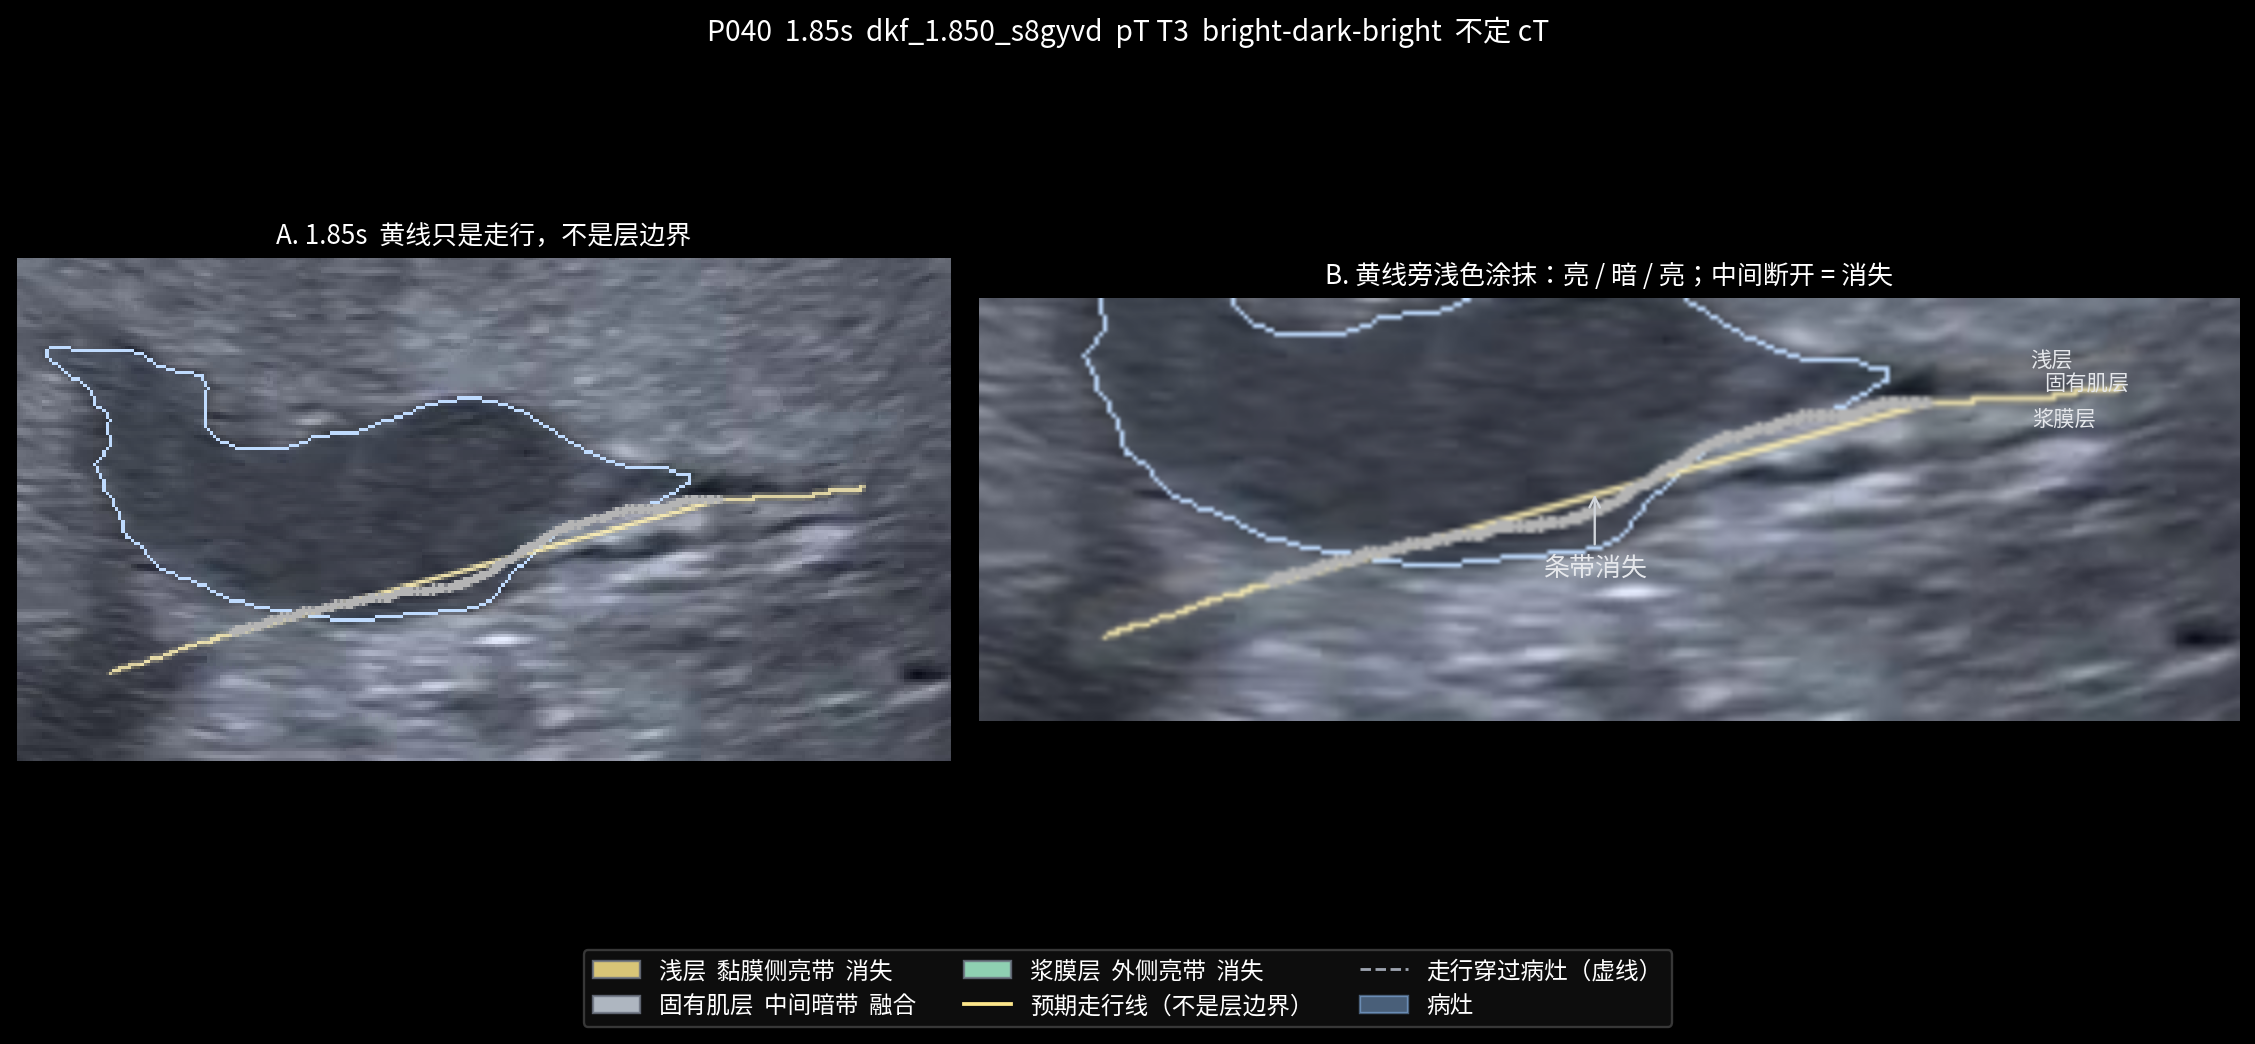
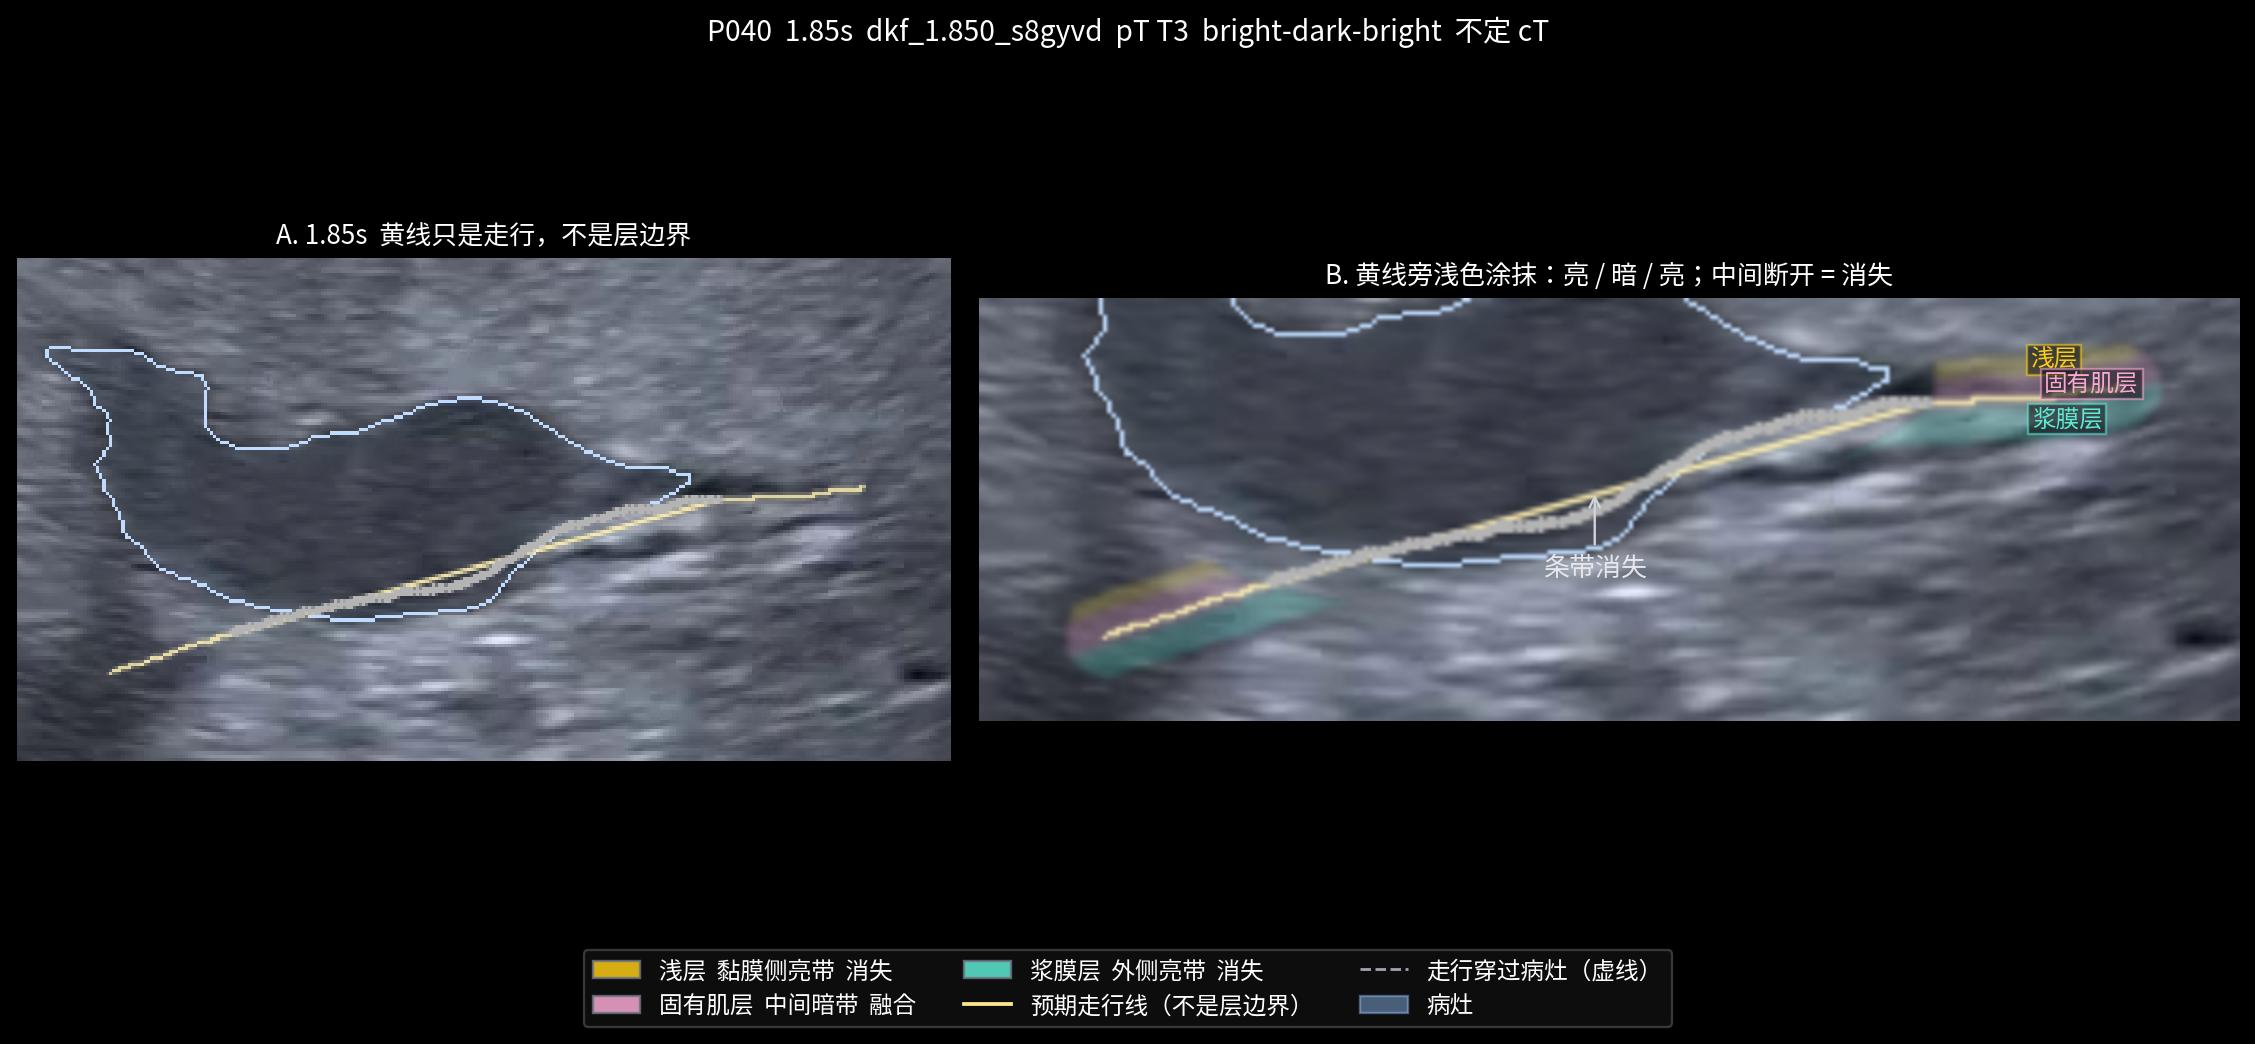
Make the three P040 smear bands transparent but still readable.
Gold, pink, and mint washes sit on the heading; labels name each layer. No ridge curves.

diff --git a/scripts/render_wall_layer_thin_bands.py b/scripts/render_wall_layer_thin_bands.py
@@ -51,13 +51,13 @@ DINO_CKPT = (
 
 LESION_BLUE = (191, 219, 254)
 LAYER_RGB = {
-    0: (254, 243, 199),
-    1: (226, 232, 240),
-    2: (209, 250, 229),
+    0: (253, 224, 71),
+    1: (249, 168, 212),
+    2: (94, 234, 212),
 }
-LAYER_HEX = {0: "#fde68a", 1: "#cbd5e1", 2: "#a7f3d0"}
+LAYER_HEX = {0: "#facc15", 1: "#f9a8d4", 2: "#5eead4"}
 WALL = (254, 240, 180)
-LAYER_BLEND = 0.11
+LAYER_BLEND = 0.26
 LESION_BLEND = 0.12
 GAP_PX = 10
 CJK_PATH = "/usr/share/fonts/opentype/noto/NotoSansCJK-Regular.ttc"
@@ -167,8 +167,8 @@ def overlay_layers(rgb: np.ndarray, xs, ys, labels, gap: np.ndarray | None = Non
             continue
         wash[ys[sel], xs[sel]] = np.array(color, dtype=np.float32)
         weight[ys[sel], xs[sel]] = 1.0
-    wash = cv2.GaussianBlur(wash, (9, 9), 1.6)
-    weight = cv2.GaussianBlur(weight, (9, 9), 1.6)
+    wash = cv2.GaussianBlur(wash, (7, 7), 1.15)
+    weight = cv2.GaussianBlur(weight, (7, 7), 1.15)
     if gap is not None:
         weight = weight * (gap == 0).astype(np.float32)
     alpha = np.clip(weight * LAYER_BLEND, 0.0, LAYER_BLEND)[..., None]
@@ -472,11 +472,12 @@ def render_case(meta: dict, seg: RoiSegmenter, out_dir: Path, brush: float) -> d
             axes[1].text(
                 *to_b(float(xs_lab[sel].mean()), float(ys_lab[sel].mean())),
                 zh,
-                color="#e5e7eb",
+                color=LAYER_HEX[lab],
                 fontproperties=CJK,
-                fontsize=9,
+                fontsize=10,
                 ha="left",
                 va="center",
+                bbox={"facecolor": "#111111", "edgecolor": LAYER_HEX[lab], "alpha": 0.55, "pad": 1.6},
             )
     mid = vanish_xy(wall_crop, crop_mask)
     if mid is not None:

diff --git a/docs/PROJECT_CHANGELOG.md b/docs/PROJECT_CHANGELOG.md
@@ -2,6 +2,14 @@
 
 This file records material project changes, their validation, and deployment state. Do not add patient identifiers, credentials, tokens, private URLs, or sensitive clinical data.
 
+## 2026-08-29, P040 transparent but visible three-color wash
+
+- Scope: `scripts/render_wall_layer_thin_bands.py --case P040`.
+- Reason: The last wash was too faint and the middle band was gray, so the three layers vanished into the ultrasound.
+- Key changes: Gold / pink / mint smear at alpha 0.26. Labels sit on the right-hand belts. Still no ridge curves. Does not unlock cT.
+- Validation: Offline P040 re-render.
+- Deployment: none (offline figure).
+
 ## 2026-08-29, P040 pale smear bands, no ridge curves
 
 - Scope: `scripts/wall_lesion_aware_cluster.py` (across-profile BDB), `scripts/render_wall_layer_thin_bands.py --case P040`.
